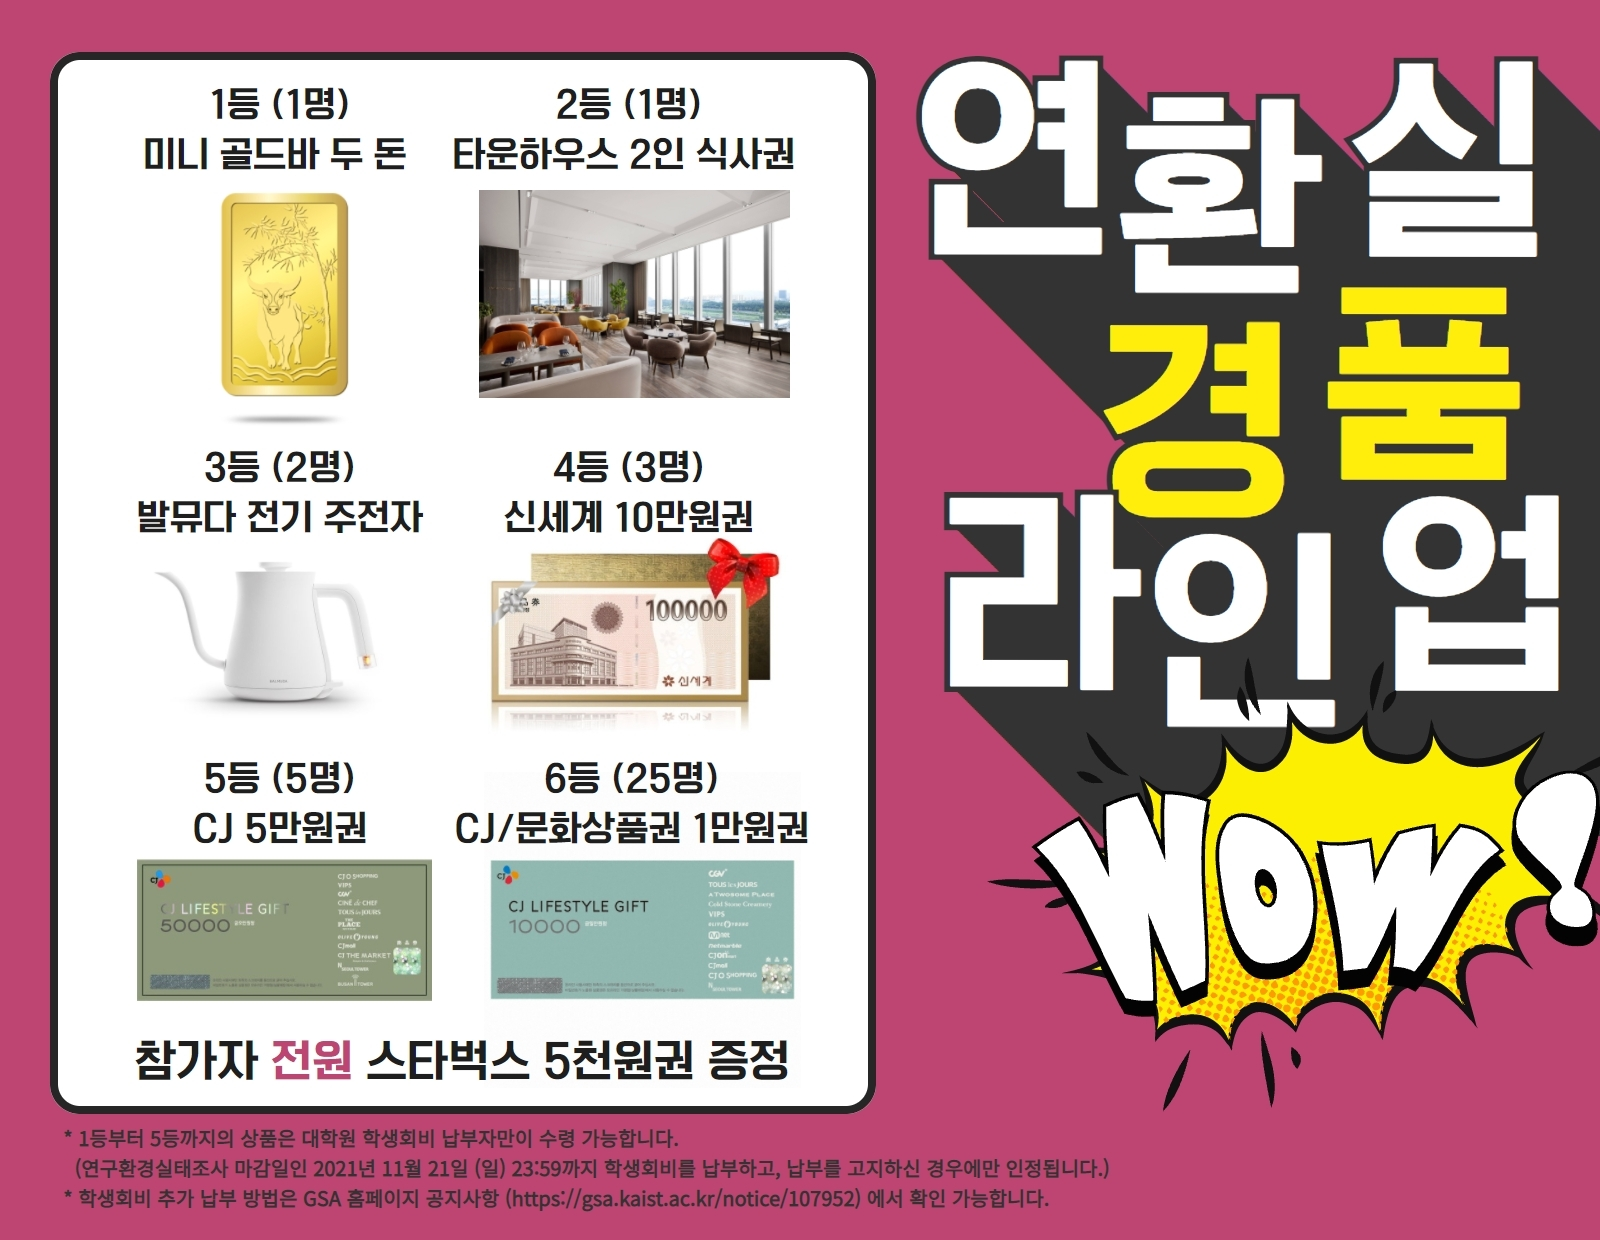
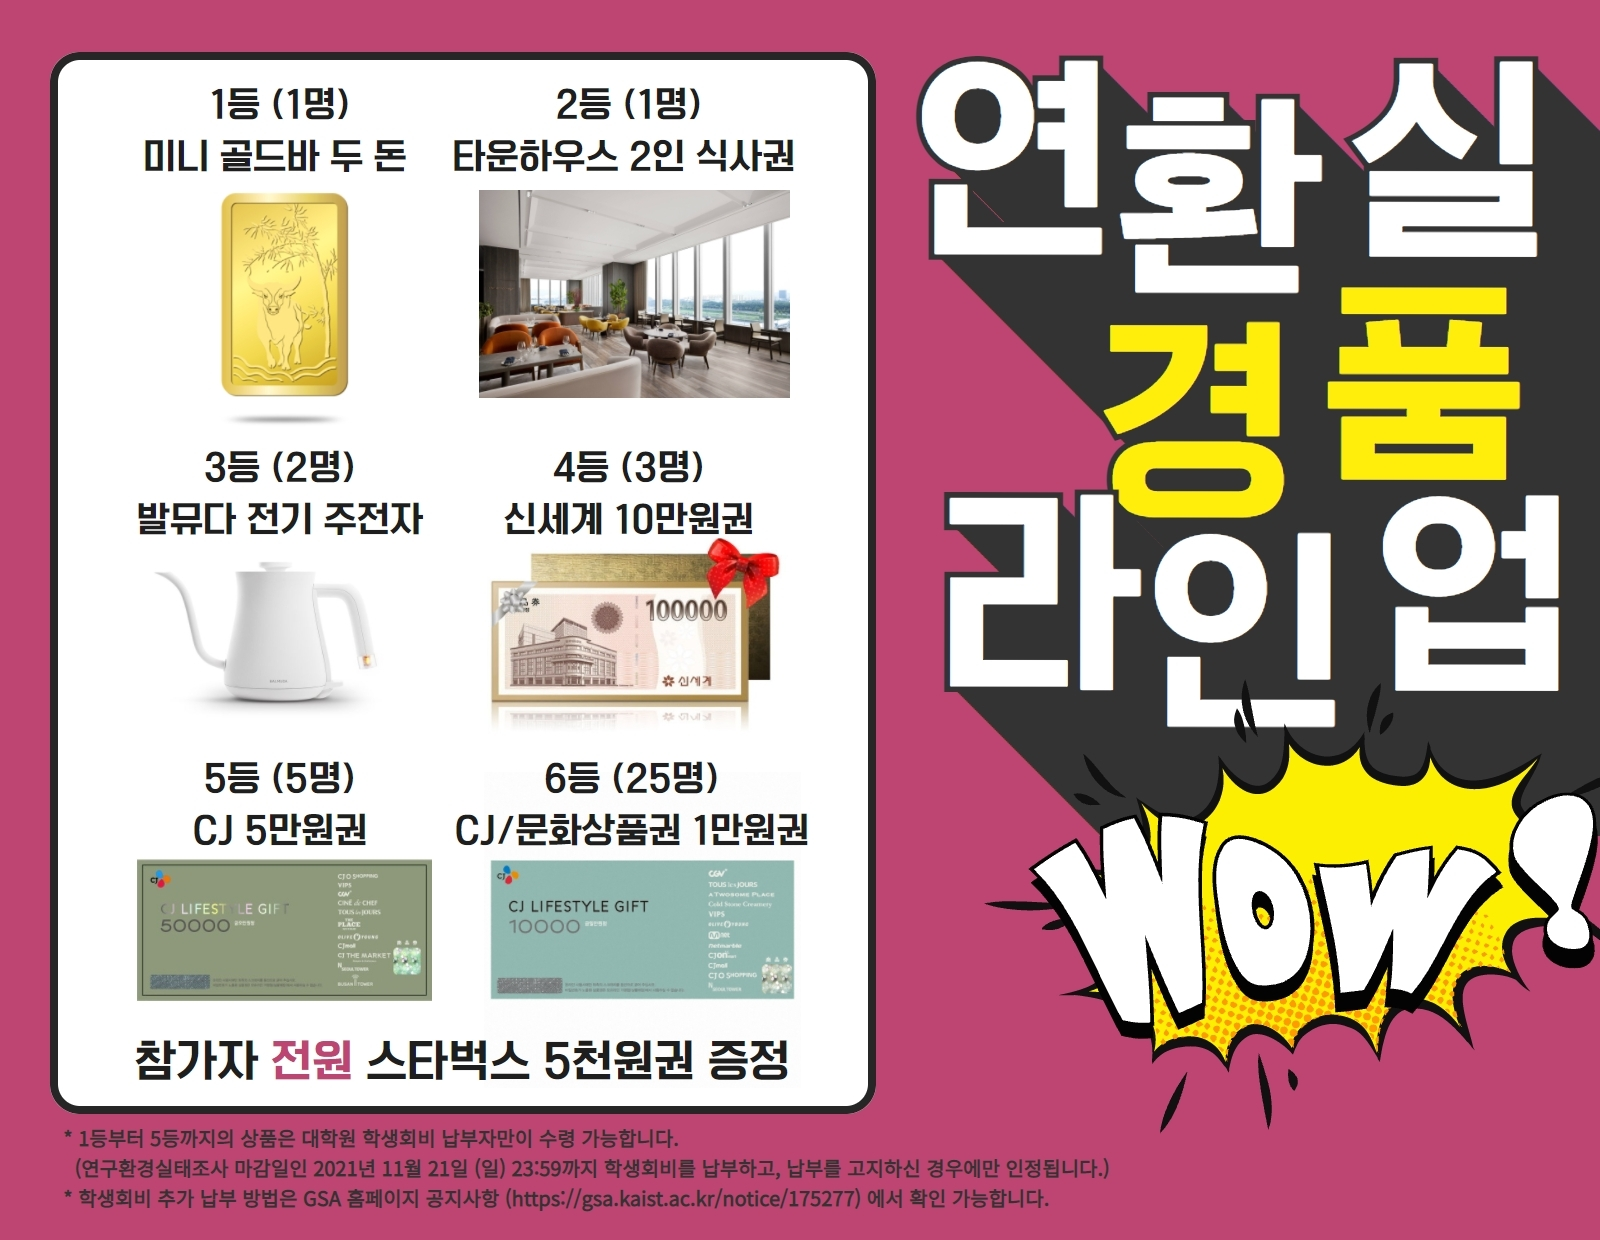
그림 변경

diff --git a/docs/index.html b/docs/index.html
@@ -219,7 +219,7 @@
 
   <div class="giveaway">
     <img src="giveaway.jpg"
-      alt="연환실 경품 라인업. Wow! 1등(1명) 미니 골드바 두 돈. 2등(1명) 타운하우스 2인 식사권. 3등(2명) 발뮤다 전기 주전자. 4등(3명) 신세계 10만 원권. 5등(5명) CJ 5만 원권. 6등(25명) CJ/문화상품권 1만 원권. 참가자 전원 스타벅스 5천 원권 증정. 1등부터 5등까지의 상품은 대학원 학생회비 납부자만이 수령 가능합니다. 연구환경실태조사 마감일은 2021년 11월 21일(일) 23:59까지 학생회비를 납부하고, 납부를 고지하신 경우에만 인정됩니다. 학생회비 추가 납부 방법은 GSA 홈페이지 공지사항 https://gsa.kaist.ac.kr/107952 에서 확인 가능합니다." />
+      alt="연환실 경품 라인업. Wow! 1등(1명) 미니 골드바 두 돈. 2등(1명) 타운하우스 2인 식사권. 3등(2명) 발뮤다 전기 주전자. 4등(3명) 신세계 10만 원권. 5등(5명) CJ 5만 원권. 6등(25명) CJ/문화상품권 1만 원권. 참가자 전원 스타벅스 5천 원권 증정. 1등부터 5등까지의 상품은 대학원 학생회비 납부자만이 수령 가능합니다. 연구환경실태조사 마감일인 2021년 11월 21일(일) 23:59까지 학생회비를 납부하고, 납부를 고지하신 경우에만 인정됩니다. 학생회비 추가 납부 방법은 GSA 홈페이지 공지사항 https://gsa.kaist.ac.kr/175277 에서 확인 가능합니다." />
   </div>
 
   <div class="advertisement">
